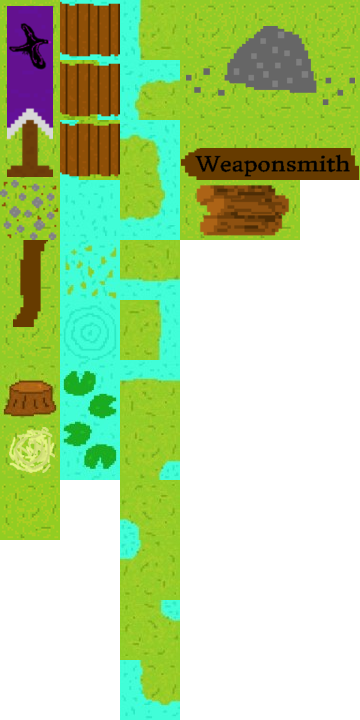
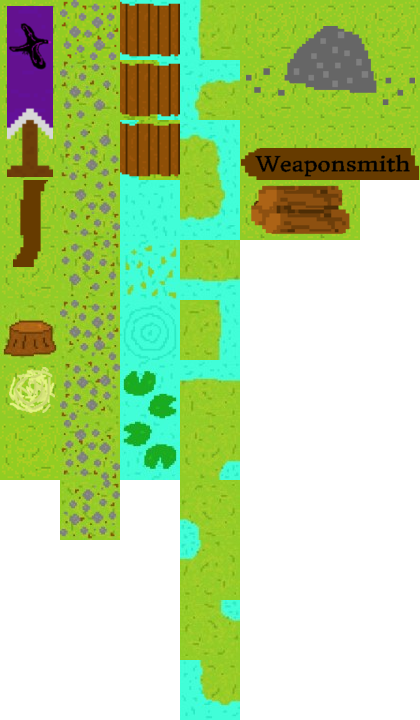
finalised fishers' valley tilemap

diff --git a/areadata.js b/areadata.js
@@ -10,15 +10,15 @@ var Areas = { // areas should have a capital (global variable)
 
 		mapData: {
 			// make a place to specify what the tilemap is, and make each of the 2 areas use a separate tilemap
-			cols: 42,
+			cols: 43,
 			rows: 10,
 			tsize: 60,
-			tilesPerRow: 6, //tiles per tilemap row (important!)
+			tilesPerRow: 7, //tiles per tilemap row (important!)
 			solidTiles: [],
-			waterTiles: [20, 26, 32],
-			pathTiles: [19],
+			waterTiles: [24, 31, 38],
+			pathTiles: [2, 9, 16, 23, 30, 37, 44, 51, 58],
 			layers: [
-				[49, 1, 49, 19, 49, 1, 49, 49, 49, 49, 49, 49, 33, 20, 3, 49, 1, 49, 49, 49, 49, 37, 49, 49, 4, 5, 6, 49, 49, 49, 49, 37, 49, 49, 49, 37, 49, 49, 49, 49, 49, 49, 49, 7, 49, 19, 49, 7, 49, 49, 49, 49, 22, 23, 33, 32, 3, 49, 7, 49, 49, 49, 49, 49, 49, 49, 10, 11, 12, 49, 43, 49, 49, 49, 49, 37, 49, 49, 49, 49, 49, 49, 49, 49, 43, 13, 49, 19, 49, 13, 49, 22, 23, 49, 22, 23, 33, 20, 3, 49, 13, 43, 49, 49, 49, 49, 49, 49, 49, 49, 49, 49, 49, 49, 49, 49, 37, 49, 49, 49, 49, 49, 49, 49, 43, 49, 23, 49, 49, 19, 19, 19, 19, 19, 19, 19, 19, 19, 8, 2, 14, 19, 19, 19, 19, 49, 49, 49, 49, 49, 49, 49, 49, 49, 49, 49, 49, 49, 49, 49, 49, 49, 49, 49, 49, 49, 49, 49, 51, 22, 23, 49, 49, 49, 49, 49, 49, 49, 49, 49, 33, 20, 3, 22, 23, 49, 49, 49, 49, 49, 49, 49, 49, 49, 49, 49, 16, 17, 18, 49, 49, 49, 49, 49, 49, 49, 49, 49, 49, 49, 3, 49, 49, 49, 49, 49, 49, 49, 22, 23, 43, 49, 33, 20, 69, 27, 51, 49, 49, 49, 49, 49, 43, 49, 49, 49, 49, 49, 49, 25, 49, 49, 49, 49, 49, 49, 49, 49, 49, 49, 49, 49, 69, 51, 49, 49, 49, 49, 49, 22, 23, 49, 45, 27, 21, 20, 20, 20, 69, 51, 49, 49, 49, 49, 49, 49, 49, 49, 4, 5, 6, 31, 43, 49, 49, 49, 49, 49, 49, 49, 49, 49, 49, 49, 20, 69, 27, 27, 27, 27, 27, 27, 27, 27, 21, 20, 20, 20, 20, 20, 20, 69, 27, 51, 49, 49, 49, 49, 49, 49, 10, 11, 12, 49, 49, 49, 49, 49, 49, 49, 49, 49, 49, 37, 49, 49, 20, 20, 20, 20, 20, 20, 20, 32, 26, 20, 20, 20, 20, 20, 38, 32, 20, 20, 20, 69, 27, 27, 51, 49, 49, 49, 49, 49, 49, 49, 49, 49, 49, 49, 49, 49, 49, 49, 49, 49, 49, 49, 26, 32, 20, 20, 20, 20, 20, 20, 20, 20, 20, 20, 38, 44, 38, 20, 20, 26, 20, 20, 20, 20, 69, 27, 27, 27, 27, 27, 51, 49, 49, 49, 49, 49, 49, 49, 37, 43, 49, 49, 49, 37],
+				[50, 1, 50, 2, 50, 1, 50, 50, 50, 50, 50, 50, 39, 24, 24, 4, 50, 1, 50, 50, 50, 50, 36, 50, 50, 5, 6, 7, 50, 50, 50, 50, 36, 50, 50, 50, 36, 50, 50, 50, 50, 50, 50, 50, 8, 50, 2, 50, 8, 50, 50, 50, 50, 26, 27, 39, 24, 38, 4, 50, 8, 50, 50, 50, 50, 50, 50, 50, 12, 13, 14, 50, 43, 50, 50, 50, 50, 36, 50, 50, 50, 50, 50, 50, 50, 50, 43, 15, 50, 2, 50, 15, 50, 26, 27, 50, 26, 27, 39, 24, 24, 4, 50, 15, 43, 50, 50, 50, 50, 50, 50, 50, 50, 50, 50, 50, 50, 50, 50, 36, 50, 50, 50, 50, 50, 50, 50, 43, 50, 27, 50, 50, 37, 2, 2, 2, 2, 2, 2, 2, 2, 10, 3, 3, 17, 2, 2, 2, 9, 50, 50, 50, 50, 50, 50, 50, 50, 50, 50, 50, 50, 50, 50, 50, 50, 50, 50, 50, 50, 50, 50, 50, 60, 26, 27, 50, 50, 50, 50, 50, 50, 50, 50, 50, 39, 24, 24, 4, 26, 27, 50, 50, 50, 50, 50, 50, 50, 50, 50, 50, 50, 19, 20, 21, 50, 50, 50, 50, 50, 50, 50, 50, 50, 50, 50, 4, 50, 50, 50, 50, 50, 50, 50, 26, 27, 43, 50, 39, 24, 24, 81, 32, 60, 50, 50, 50, 50, 50, 43, 50, 50, 50, 50, 50, 50, 22, 50, 50, 50, 50, 50, 50, 50, 50, 50, 50, 50, 50, 81, 60, 50, 50, 50, 50, 50, 26, 27, 50, 53, 32, 25, 24, 24, 24, 24, 81, 60, 50, 50, 50, 50, 50, 50, 50, 50, 5, 6, 7, 29, 43, 50, 50, 50, 50, 50, 50, 50, 50, 50, 50, 50, 24, 81, 32, 32, 32, 32, 32, 32, 32, 32, 25, 24, 24, 24, 24, 24, 24, 24, 81, 32, 60, 50, 50, 50, 50, 50, 50, 12, 13, 14, 50, 50, 50, 50, 50, 50, 50, 50, 50, 50, 36, 50, 50, 24, 24, 24, 24, 24, 24, 24, 38, 31, 24, 24, 24, 24, 24, 52, 45, 38, 24, 24, 24, 81, 32, 32, 60, 50, 50, 50, 50, 50, 50, 50, 50, 50, 50, 50, 50, 50, 50, 50, 50, 50, 50, 50, 31, 38, 24, 24, 24, 24, 24, 24, 24, 24, 24, 38, 52, 45, 52, 45, 45, 24, 31, 24, 24, 24, 24, 81, 32, 32, 32, 32, 32, 60, 50, 50, 50, 50, 50, 50, 50, 36, 50, 50, 50, 50, 36],
 				[],
 			],
 		},
@@ -29,27 +29,29 @@ var Areas = { // areas should have a capital (global variable)
 				"tiles",
 				"driver",
 				"weaponsmith",
+				"cart",
 			],
 			
 			addresses: [
 				"./assets/tilemap/tutorial.png",
 				"./assets/npcs/driver.png",
 				"./assets/npcs/weaponsmith.png",
+				"./assets/objects/cartEaglecrest.png",
 			],
 		},
 		
 		song: "./assets/music/Pippin-the-Hunchback.mp3",
 		
 		player: {
-			x: 2300,
-			y: 270,
+			x: 2297,
+			y: 387,
 		},
 		
 		areaTeleports: [
 			{
-				x: 255,
+				x: 315,
 				y: -49,
-				width: 150,
+				width: 210,
 				height: 2,
 				teleportTo: "eaglecrestLoggingCamp",
 				destinationX: 460,
@@ -59,7 +61,7 @@ var Areas = { // areas should have a capital (global variable)
 		
 		questNPCs: [
 			{
-				x: 2020,
+				x: 2080,
 				y: 290,
 				width: 92,
 				height: 100,
@@ -78,7 +80,7 @@ var Areas = { // areas should have a capital (global variable)
 		
 		merchants: [
 			{
-				x: 1050,
+				x: 1300,
 				y: 350,
 				width: 90,
 				height: 110,
@@ -91,6 +93,16 @@ var Areas = { // areas should have a capital (global variable)
 					Items.staff[2],
 					Items.bow[2],
 				],
+			},
+		],
+		
+		characters: [
+			{
+				x: 2290,
+				y: 290,
+				width: 246,
+				height: 175,
+				image: "cart",
 			},
 		],
 		

diff --git a/assets/tilemap/tutorial.js b/assets/tilemap/tutorial.js
@@ -11,15 +11,15 @@
 { "height":10,
  "layers":[
         {
-         "data":[49, 1, 49, 19, 49, 1, 49, 49, 49, 49, 49, 49, 33, 20, 3, 49, 1, 49, 49, 49, 49, 37, 49, 49, 4, 5, 6, 49, 49, 49, 49, 37, 49, 49, 49, 37, 49, 49, 49, 49, 49, 49, 49, 7, 49, 19, 49, 7, 49, 49, 49, 49, 22, 23, 33, 32, 3, 49, 7, 49, 49, 49, 49, 49, 49, 49, 10, 11, 12, 49, 43, 49, 49, 49, 49, 37, 49, 49, 49, 49, 49, 49, 49, 49, 43, 13, 49, 19, 49, 13, 49, 22, 23, 49, 22, 23, 33, 20, 3, 49, 13, 43, 49, 49, 49, 49, 49, 49, 49, 49, 49, 49, 49, 49, 49, 49, 37, 49, 49, 49, 49, 49, 49, 49, 43, 49, 23, 49, 49, 19, 19, 19, 19, 19, 19, 19, 19, 19, 8, 2, 14, 19, 19, 19, 19, 49, 49, 49, 49, 49, 49, 49, 49, 49, 49, 49, 49, 49, 49, 49, 49, 49, 49, 49, 49, 49, 49, 49, 51, 22, 23, 49, 49, 49, 49, 49, 49, 49, 49, 49, 33, 20, 3, 22, 23, 49, 49, 49, 49, 49, 49, 49, 49, 49, 49, 49, 16, 17, 18, 49, 49, 49, 49, 49, 49, 49, 49, 49, 49, 49, 3, 49, 49, 49, 49, 49, 49, 49, 22, 23, 43, 49, 33, 20, 69, 27, 51, 49, 49, 49, 49, 49, 43, 49, 49, 49, 49, 49, 49, 25, 49, 49, 49, 49, 49, 49, 49, 49, 49, 49, 49, 49, 69, 51, 49, 49, 49, 49, 49, 22, 23, 49, 45, 27, 21, 20, 20, 20, 69, 51, 49, 49, 49, 49, 49, 49, 49, 49, 4, 5, 6, 31, 43, 49, 49, 49, 49, 49, 49, 49, 49, 49, 49, 49, 20, 69, 27, 27, 27, 27, 27, 27, 27, 27, 21, 20, 20, 20, 20, 20, 20, 69, 27, 51, 49, 49, 49, 49, 49, 49, 10, 11, 12, 49, 49, 49, 49, 49, 49, 49, 49, 49, 49, 37, 49, 49, 20, 20, 20, 20, 20, 20, 20, 32, 26, 20, 20, 20, 20, 20, 38, 32, 20, 20, 20, 69, 27, 27, 51, 49, 49, 49, 49, 49, 49, 49, 49, 49, 49, 49, 49, 49, 49, 49, 49, 49, 49, 49, 26, 32, 20, 20, 20, 20, 20, 20, 20, 20, 20, 20, 38, 44, 38, 20, 20, 26, 20, 20, 20, 20, 69, 27, 27, 27, 27, 27, 51, 49, 49, 49, 49, 49, 49, 49, 37, 43, 49, 49, 49, 37],
+         "data":[50, 1, 50, 2, 50, 1, 50, 50, 50, 50, 50, 50, 39, 24, 24, 4, 50, 1, 50, 50, 50, 50, 36, 50, 50, 5, 6, 7, 50, 50, 50, 50, 36, 50, 50, 50, 36, 50, 50, 50, 50, 50, 50, 50, 8, 50, 2, 50, 8, 50, 50, 50, 50, 26, 27, 39, 24, 38, 4, 50, 8, 50, 50, 50, 50, 50, 50, 50, 12, 13, 14, 50, 43, 50, 50, 50, 50, 36, 50, 50, 50, 50, 50, 50, 50, 50, 43, 15, 50, 2, 50, 15, 50, 26, 27, 50, 26, 27, 39, 24, 24, 4, 50, 15, 43, 50, 50, 50, 50, 50, 50, 50, 50, 50, 50, 50, 50, 50, 50, 36, 50, 50, 50, 50, 50, 50, 50, 43, 50, 27, 50, 50, 37, 2, 2, 2, 2, 2, 2, 2, 2, 10, 3, 3, 17, 2, 2, 2, 9, 50, 50, 50, 50, 50, 50, 50, 50, 50, 50, 50, 50, 50, 50, 50, 50, 50, 50, 50, 50, 50, 50, 50, 60, 26, 27, 50, 50, 50, 50, 50, 50, 50, 50, 50, 39, 24, 24, 4, 26, 27, 50, 50, 50, 50, 50, 50, 50, 50, 50, 50, 50, 19, 20, 21, 50, 50, 50, 50, 50, 50, 50, 50, 50, 50, 50, 4, 50, 50, 50, 50, 50, 50, 50, 26, 27, 43, 50, 39, 24, 24, 81, 32, 60, 50, 50, 50, 50, 50, 43, 50, 50, 50, 50, 50, 50, 22, 50, 50, 50, 50, 50, 50, 50, 50, 50, 50, 50, 50, 81, 60, 50, 50, 50, 50, 50, 26, 27, 50, 53, 32, 25, 24, 24, 24, 24, 81, 60, 50, 50, 50, 50, 50, 50, 50, 50, 5, 6, 7, 29, 43, 50, 50, 50, 50, 50, 50, 50, 50, 50, 50, 50, 24, 81, 32, 32, 32, 32, 32, 32, 32, 32, 25, 24, 24, 24, 24, 24, 24, 24, 81, 32, 60, 50, 50, 50, 50, 50, 50, 12, 13, 14, 50, 50, 50, 50, 50, 50, 50, 50, 50, 50, 36, 50, 50, 24, 24, 24, 24, 24, 24, 24, 38, 31, 24, 24, 24, 24, 24, 52, 45, 38, 24, 24, 24, 81, 32, 32, 60, 50, 50, 50, 50, 50, 50, 50, 50, 50, 50, 50, 50, 50, 50, 50, 50, 50, 50, 50, 31, 38, 24, 24, 24, 24, 24, 24, 24, 24, 24, 38, 52, 45, 52, 45, 45, 24, 31, 24, 24, 24, 24, 81, 32, 32, 32, 32, 32, 60, 50, 50, 50, 50, 50, 50, 50, 36, 50, 50, 50, 50, 36],
          "height":10,
          "name":"Tile Layer 1",
          "offsetx":-952,
-         "offsety":-23.9999666666667,
+         "offsety":-24,
          "opacity":1,
          "type":"tilelayer",
          "visible":true,
-         "width":42,
+         "width":43,
          "x":0,
          "y":0
         }],
@@ -30,20 +30,20 @@
  "tileheight":60,
  "tilesets":[
         {
-         "columns":6,
+         "columns":7,
          "firstgid":1,
          "image":"tutorial.png",
          "imageheight":720,
-         "imagewidth":360,
+         "imagewidth":420,
          "margin":0,
          "name":"tutorial",
          "spacing":0,
-         "tilecount":72,
+         "tilecount":84,
          "tileheight":60,
          "tilewidth":60
         }],
  "tilewidth":60,
  "type":"map",
  "version":1,
- "width":42
+ "width":43
 });

diff --git a/main.js b/main.js
@@ -921,6 +921,15 @@ Game.loadArea = function (areaName, destination) {
 			}
 		}
 		
+		// characters (aesthetic only)
+		this.characters = [];
+		if(Areas[areaName].characters !== undefined) {
+			for(var i = 0; i < Areas[areaName].characters.length; i++) {
+				Areas[areaName].characters[i].map = map;
+				this.characters.push(new Villager(Areas[areaName].characters[i]));
+			}
+		}
+		
 		// quest npcs
 		this.questNPCs = [];
 		if(Areas[areaName].questNPCs !== undefined) { // check they exist in areadata.js
@@ -1014,7 +1023,7 @@ Game.init = function () {
 	this.playingMusic = null;
 	
 	// list of basic (no extra operations to be done) things to be rendered (in order)
-	this.renderList = ["villagers", "questNPCs", "merchants", "identifiers", "dummies", "enemies"];
+	this.renderList = ["characters", "villagers", "questNPCs", "merchants", "identifiers", "dummies", "enemies"];
 	// then player, then projectiles (in order they were shot)
 	
 	// create the player at its start x and y positions
